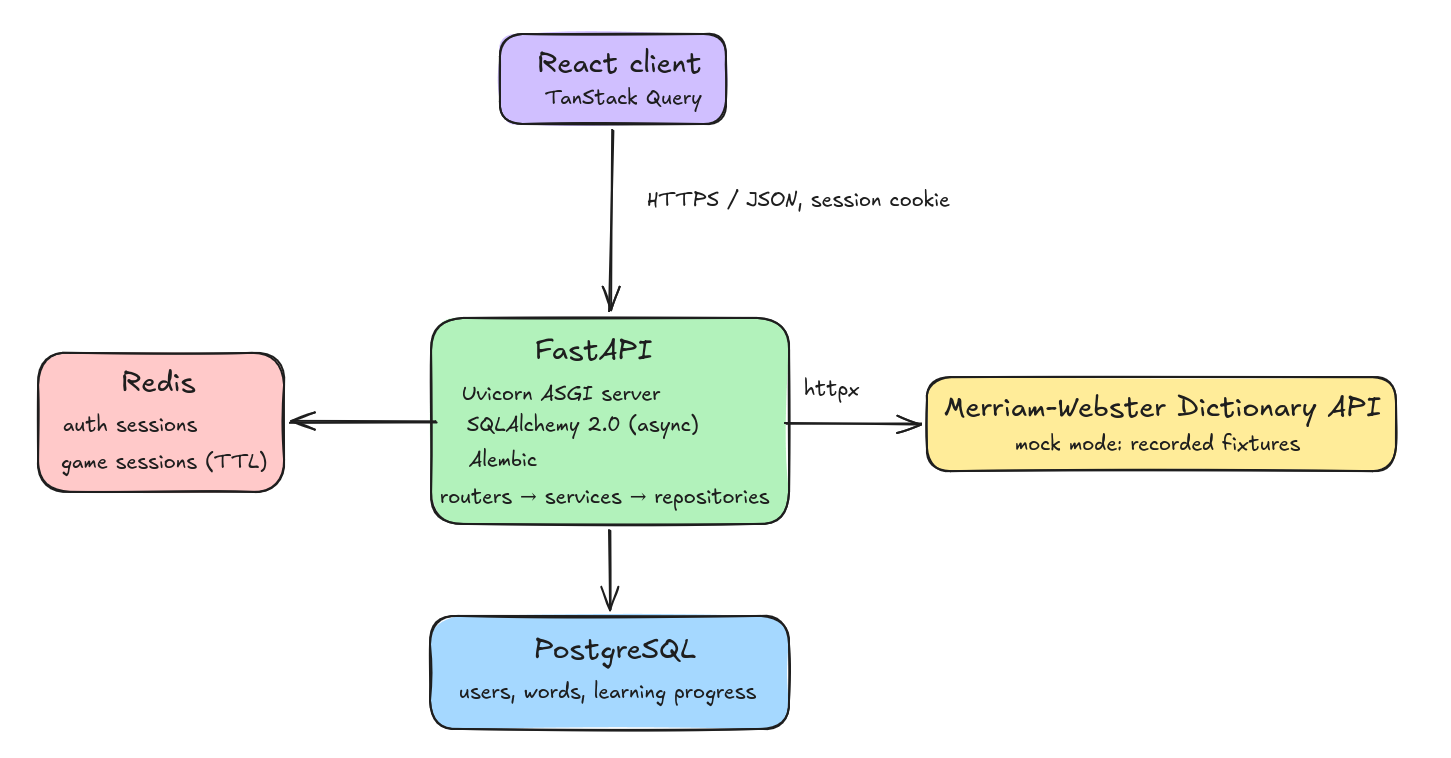
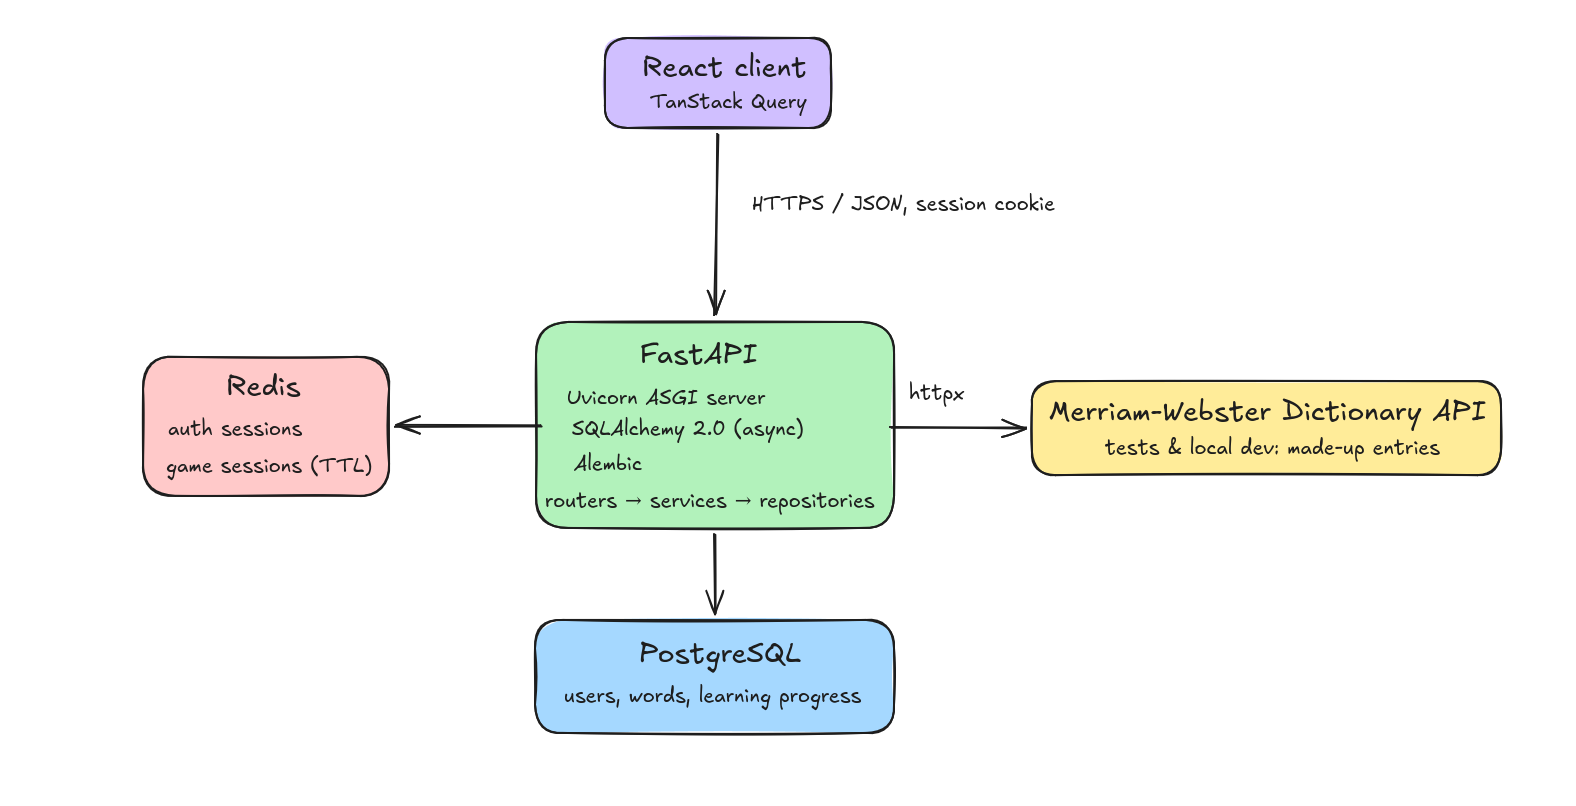
docs: relabel mock mode in the architecture diagram

diff --git a/README.md b/README.md
@@ -33,7 +33,7 @@ The spaced repetition is a simplified scheduler inspired by Anki's learning step
 
 ## Architecture
 
-![Architecture diagram: a React client calls the FastAPI app over HTTPS with a session cookie; the app stores auth and game sessions in Redis, users, words and learning progress in PostgreSQL, and looks words up in the Merriam-Webster Dictionary API, which mock mode replaces with made-up entries in the same format.](docs/architecture.png)
+![Architecture diagram: a React client calls the FastAPI app over HTTPS with a session cookie; the app stores auth and game sessions in Redis, users, words and learning progress in PostgreSQL, and looks words up in the Merriam-Webster Dictionary API, which tests and local development replace with made-up entries in the same format.](docs/architecture.png)
 
 Each feature module (`auth`, `words`, `games`) is split the same way:
 
